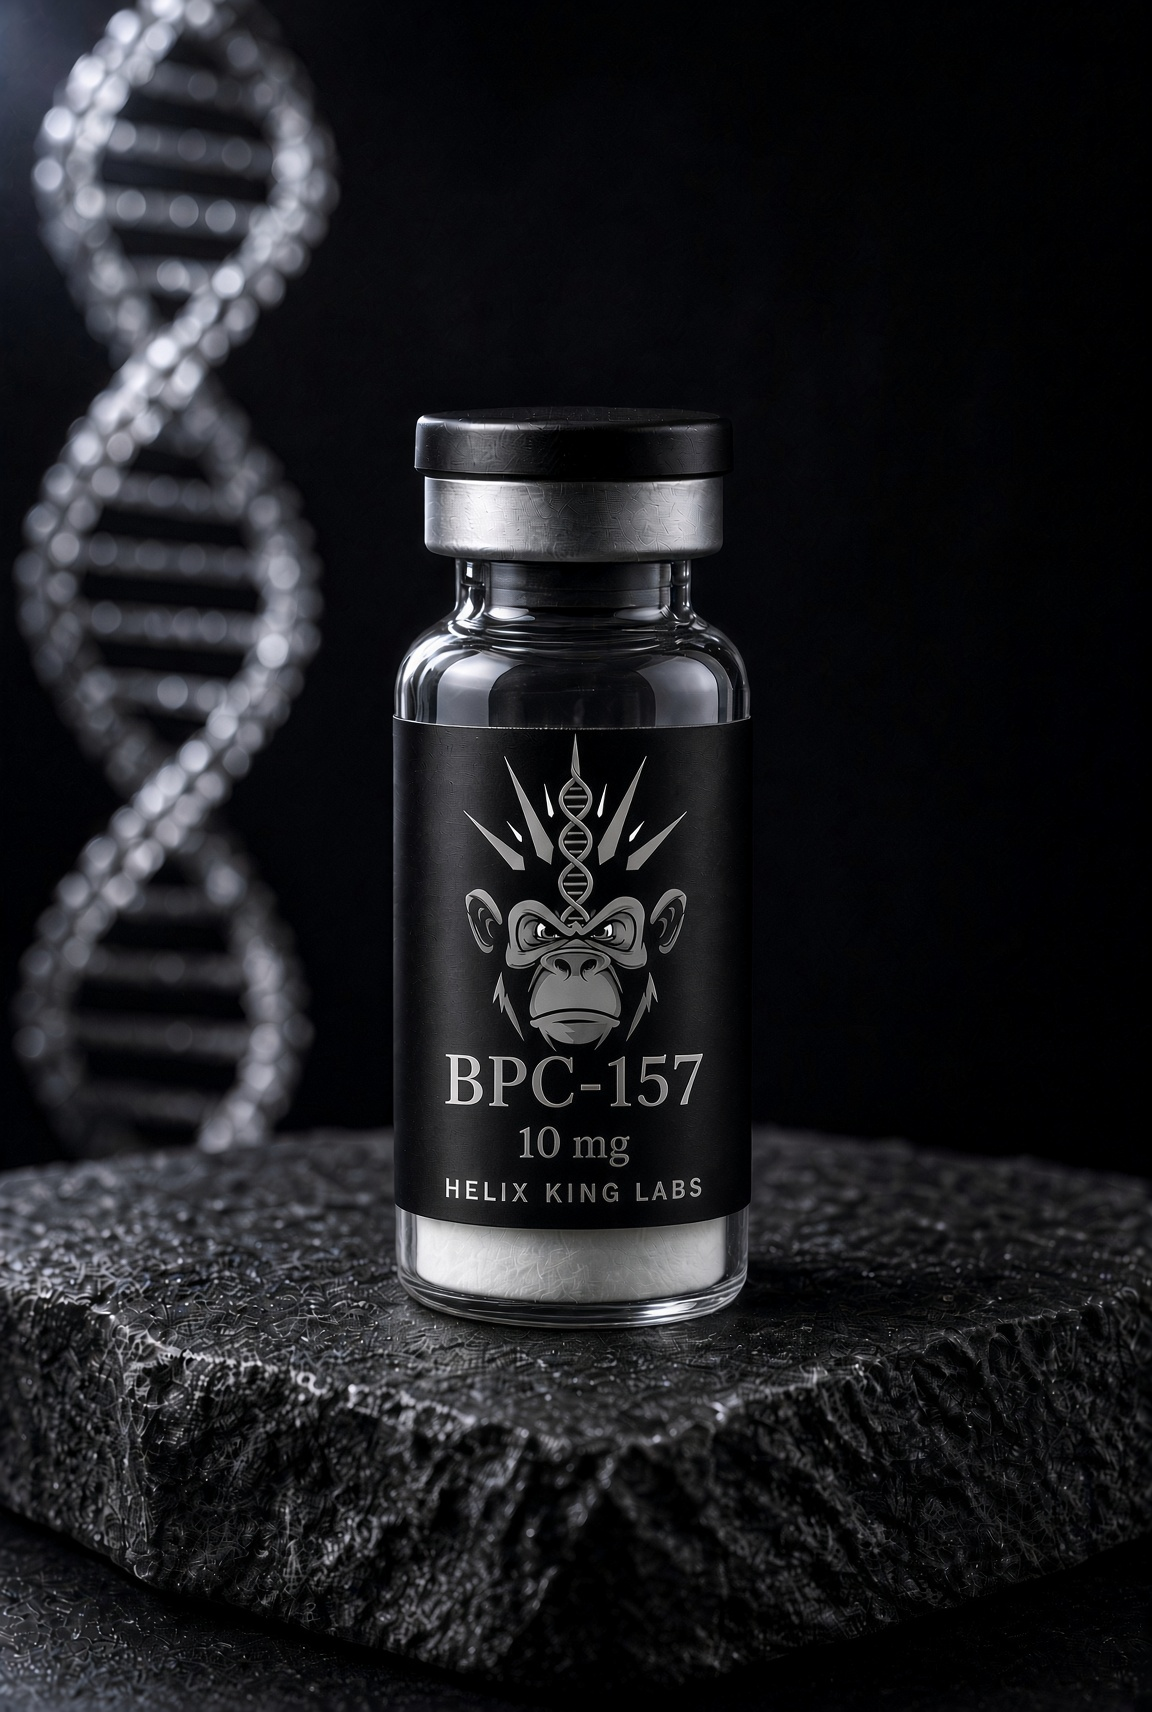
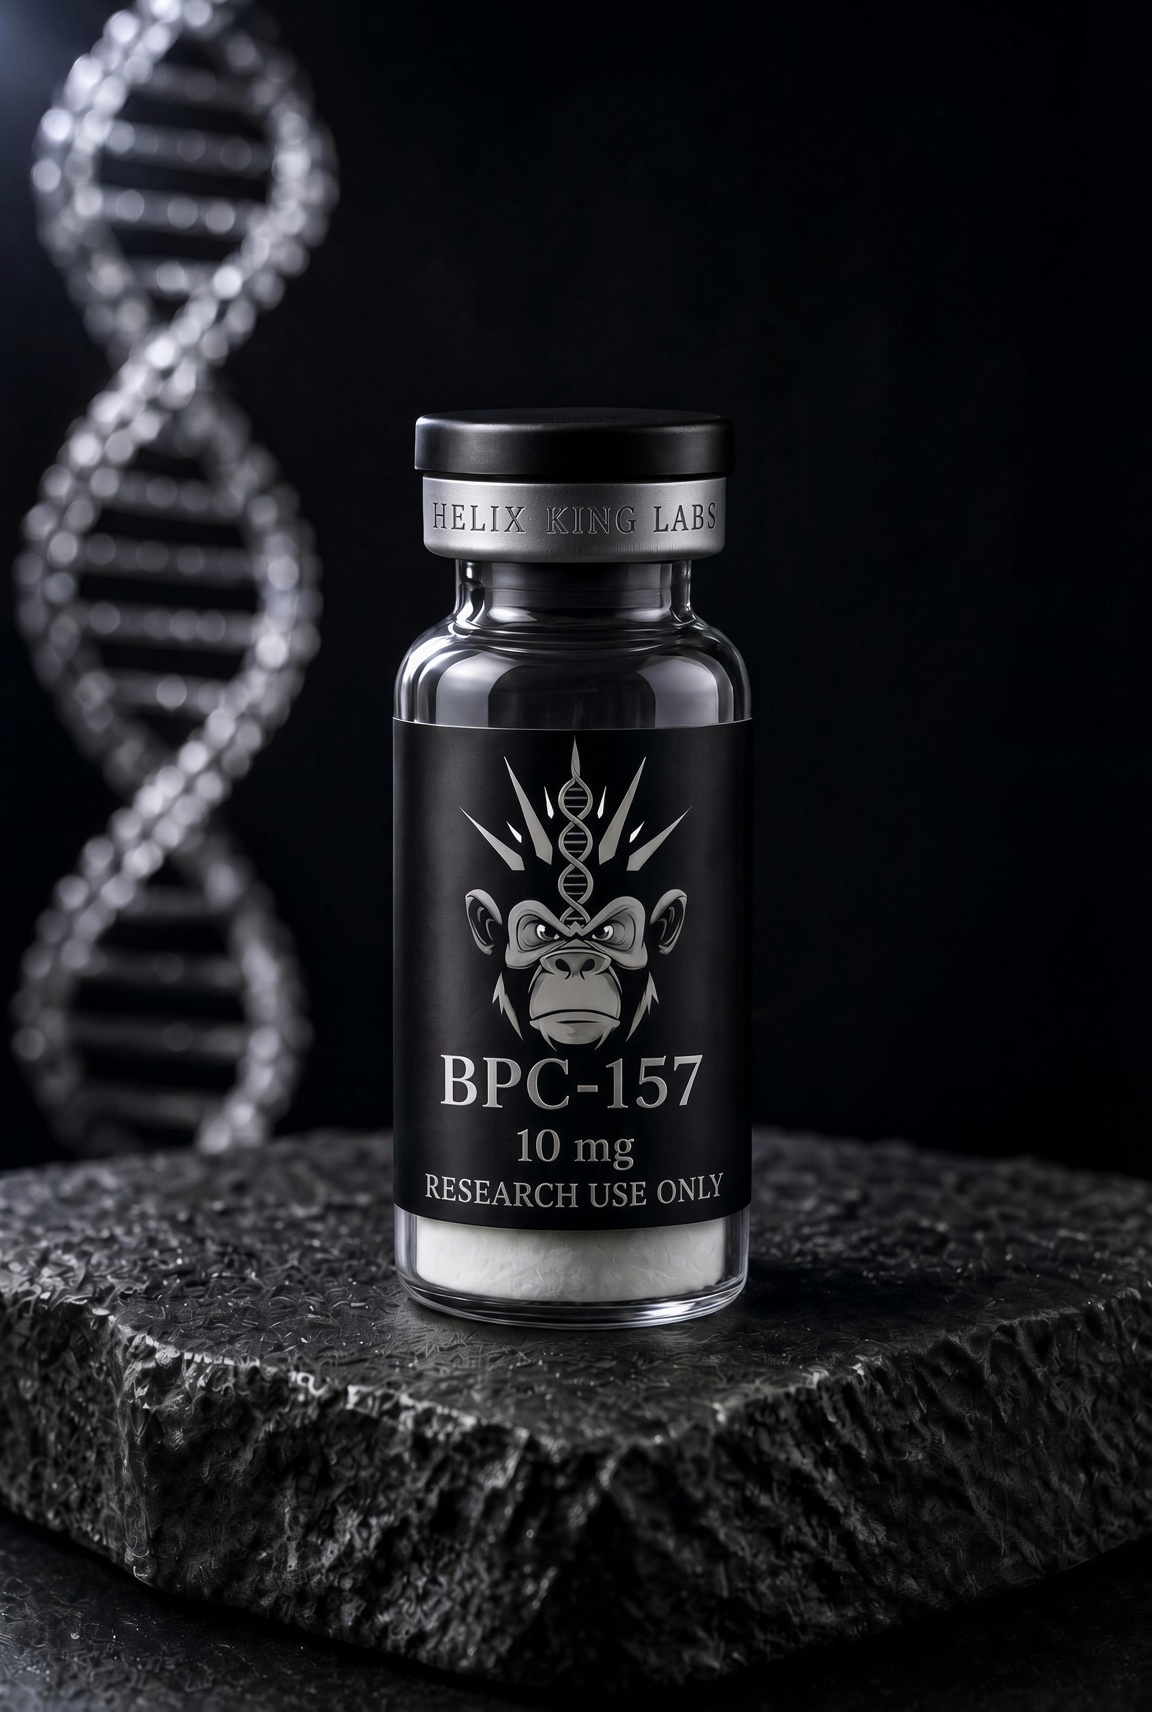
Replace approved vial frames with cap engraving and RUO label.
HELIX KING LABS is on the silver ring. RESEARCH USE ONLY replaces the lab name on the label. Cache bust is v=58 on the replaced files only.

diff --git a/public/app.js b/public/app.js
@@ -305,7 +305,7 @@
     const copy = state.copy.homepage;
     return `
     <section class="hero">
-      <img class="bg" src="/img/pgl-gic1-10.jpg" alt="" />
+      <img class="bg" src="/img/pgl-gic1-10.jpg?v=58" alt="" />
       <div class="veil"></div>
       <div class="hero-copy">
         <div class="kicker">Helix King Labs</div>
@@ -467,9 +467,9 @@
   }
 
   const COA_LOTS = [
-    { code: "RT10", name: "PGL-GIC1", size: "10 mg", form: "Dried research material", cap: "Black", crimp: "Silver", status: "Incoming", lot: "Pending", image: "/img/pgl-gic1-10.jpg?v=57" },
-    { code: "RT20", name: "PGL-GIC1", size: "20 mg", form: "Dried research material", cap: "Light blue", crimp: "Silver", status: "Reported", lot: "2607310981", lab: "Freedom Diagnostics", reportId: "2607310981", search: "AMIN2607310981", received: "2026-07-31", reported: "2026-08-05", purity: "99.89%", net: "19.67 mg", identity: "Confirmed", appearance: "White dried powder", fentanyl: "None detected", method: "HPLC-UV with LC-MS", file: "/docs/rt20-freedom-2607310981.jpg", image: "/img/pgl-gic1-20.jpg?v=57" },
-    { code: "ELR10", name: "PGL-EL1", size: "10 mg", form: "Dried research material", cap: "Black", crimp: "Silver", status: "Incoming", lot: "Pending", image: "/img/pgl-el1-10.jpg?v=57", alias: ["ELORA"] },
+    { code: "RT10", name: "PGL-GIC1", size: "10 mg", form: "Dried research material", cap: "Black", crimp: "Silver", status: "Incoming", lot: "Pending", image: "/img/pgl-gic1-10.jpg?v=58" },
+    { code: "RT20", name: "PGL-GIC1", size: "20 mg", form: "Dried research material", cap: "Light blue", crimp: "Silver", status: "Reported", lot: "2607310981", lab: "Freedom Diagnostics", reportId: "2607310981", search: "AMIN2607310981", received: "2026-07-31", reported: "2026-08-05", purity: "99.89%", net: "19.67 mg", identity: "Confirmed", appearance: "White dried powder", fentanyl: "None detected", method: "HPLC-UV with LC-MS", file: "/docs/rt20-freedom-2607310981.jpg", image: "/img/pgl-gic1-20.jpg?v=58" },
+    { code: "ELR10", name: "PGL-EL1", size: "10 mg", form: "Dried research material", cap: "Black", crimp: "Silver", status: "Incoming", lot: "Pending", image: "/img/pgl-el1-10.jpg?v=58", alias: ["ELORA"] },
     { code: "TR30", name: "PGL-GI1", size: "30 mg", form: "Dried research material", cap: "Black", crimp: "Silver", status: "Incoming", lot: "Pending", image: "/img/pgl-gi1-30.jpg?v=57", alias: ["TRIZ30"] },
   ];
 
